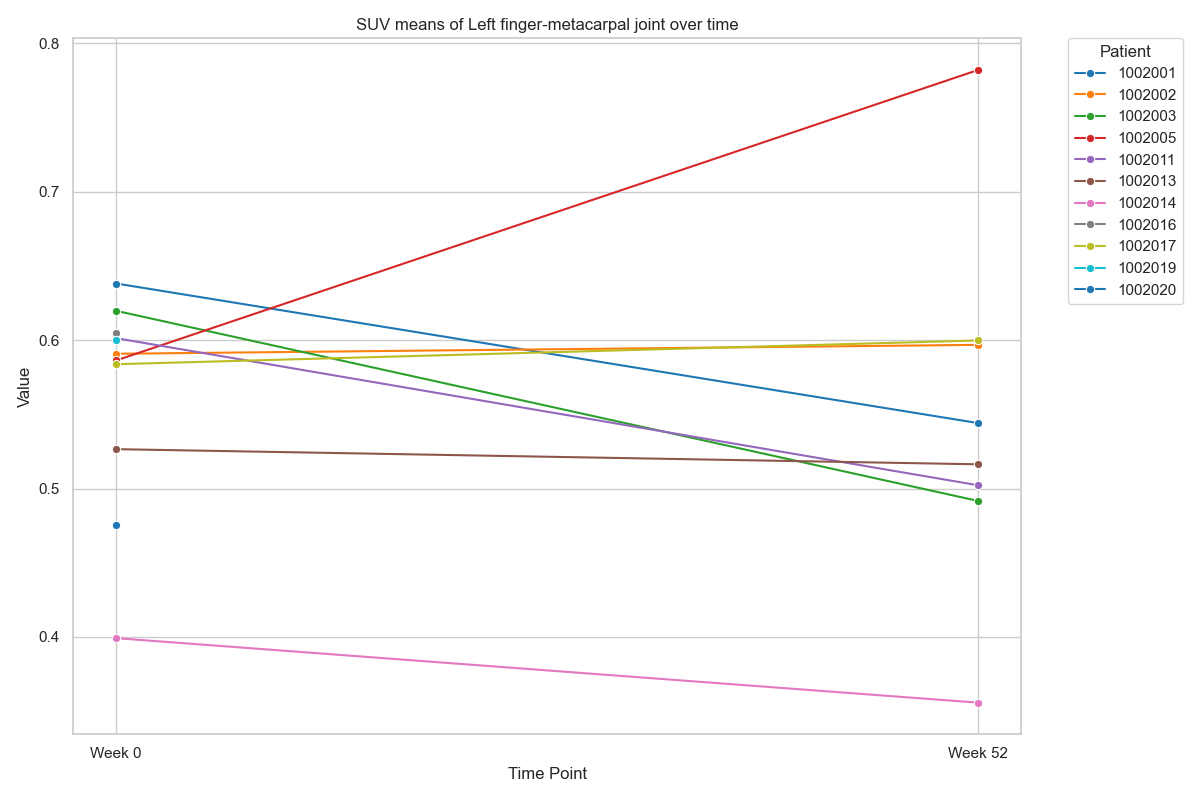
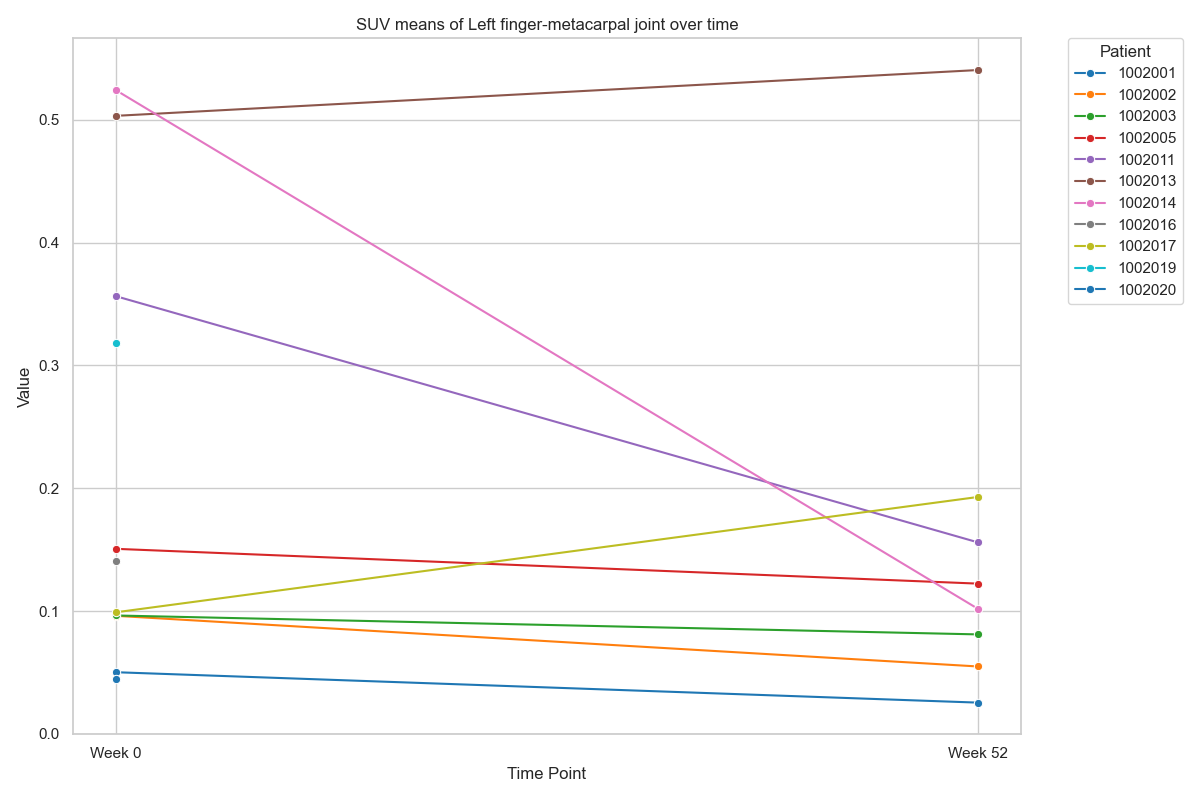
Figures generated. Will work on exporting dataframes to excel documents for data aggregation. Only site 1002 really usable...

diff --git a/psoriasisStatistics.py b/psoriasisStatistics.py
@@ -29,6 +29,8 @@ def combine_scans(path):
     """This function takes an npy file and combines the separate A,B,C scans into one and outputs the combined dictionary without the A,B,C suffixes"""
     combined_scans = {}
     scans = np.load(path, allow_pickle='TRUE').item()
+    for key,val in scans.items():
+        print(key)
 
     for scan_id, regions in scans.items():
         # Get the base scan ID without the component suffix (A, B, C)
@@ -104,7 +106,7 @@ def retrieveStats(combined_scans, scan, joint, stat):
     # print(combined_scans)
     return combined_scans[scan][joint_names[joint]][stat]
 
-def calculateStatistics(combined_scans, joint, stat):
+def calculateStatistics(combined_scans, joint, stat, site):
     #print(combined_scans)
     organizationFiles = "E:/Psoriasis/VIP-S Subject Tracker_Accounting Final.xlsx"
     df = pd.read_excel(organizationFiles)
@@ -114,10 +116,36 @@ def calculateStatistics(combined_scans, joint, stat):
     statistics_df = pd.DataFrame(columns=columns)
 
     for index, row in df.iterrows():
-        if str(row['Subject #']).startswith('1002'):
-            if str(row['Subject #']) == "1002018":
-                continue
-            #print(str(row['Subject #']))
+        if str(row['Subject #']).startswith(site):
+            # if str(row['Subject #']) == "1002018":
+            #     continue
+
+            # if str(row['Subject #']) == "1003005":
+            #    continue
+
+
+            # if str(row['Subject #']) == "1003007" and row['IRC_Week 0 baseline'] == 531:
+            #    continue
+            # if str(row['Subject #']) == "1005001" and row['IRC_Week 0 baseline'] == 322:
+            #    continue
+            # if str(row['Subject #']) == "1005002" and row['IRC_Week 0 baseline'] == 742:
+            #    continue
+            # if str(row['Subject #']) == "1005004" and row['IRC_Week 0 baseline'] == 295:
+            #    continue
+            # if str(row['Subject #']) == "1005007" and row['IRC_Week 12'] == 241:
+            #    continue
+            # if str(row['Subject #']) == "1005011" and row['IRC_Week 0 baseline'] == 764:
+            #    continue
+            # if str(row['Subject #']) == "1005013" and row['IRC_Week 0 baseline'] == 890:
+            #    continue
+            
+            # if str(row['Subject #']) == "1012001" and row['IRC_Week 0 baseline'] == 980:
+            #    continue
+            # if str(row['Subject #']) == "1012003" and row['IRC_Week 0 baseline'] == 802:
+            #    continue
+            # if str(row['Subject #']) == "1012006" and row['IRC_Week 0 baseline'] == 351:
+            #    continue
+
             subject_name = str(row['Subject #'])
 
             #Add patient data to df:
@@ -126,10 +154,12 @@ def calculateStatistics(combined_scans, joint, stat):
             code0 = row['IRC_Week 0 baseline']
             if not np.isnan(code0):
                 week_0 = subject_name + "-" + f"{int(code0):03}"
-                stat1 = retrieveStats(combined_scans, week_0, joint, stat)
-                patient_data["Week 0"] = stat1
-                #print(week_0)
-                #print(stat1)
+
+                if week_0 in combined_scans:
+                    stat1 = retrieveStats(combined_scans, week_0, joint, stat)
+                    patient_data["Week 0"] = stat1
+                else:
+                    patient_data["Week 0"] = np.nan
             else:
                 patient_data["Week 0"] = np.nan
 
@@ -137,10 +167,11 @@ def calculateStatistics(combined_scans, joint, stat):
             code1 = row['IRC_Week 12']
             if not np.isnan(code1):
                 week_1 = subject_name + "-" + f"{int(code1):03}"
-                stat2 = retrieveStats(combined_scans, week_1, joint, stat)
-                #print(week_1)
-                #print(stat2)
-                patient_data["Week 12"] = stat2
+                if week_1 in combined_scans:
+                    stat2 = retrieveStats(combined_scans, week_1, joint, stat)
+                    patient_data["Week 12"] = stat2
+                else:
+                    patient_data["Week 12"] = np.nan
             else:
                 patient_data["Week 12"] = np.nan
             
@@ -148,10 +179,12 @@ def calculateStatistics(combined_scans, joint, stat):
             code2 = row['IRC_Week 52']
             if not np.isnan(code2):
                 week_2 = subject_name + "-" + f"{int(code2):03}"
-                stat3 = retrieveStats(combined_scans, week_2, joint, stat)
-                #print(week_2)
-                #print(stat3)
-                patient_data["Week 52"] = stat3
+
+                if week_2 in combined_scans:
+                    stat3 = retrieveStats(combined_scans, week_2, joint, stat)
+                    patient_data["Week 52"] = stat3
+                else:
+                    patient_data["Week 52"] = np.nan
             else:
                 patient_data["Week 52"] = np.nan
             # print(f"Week 0: {int(row['IRC_Week 0 baseline'])}")
@@ -193,15 +226,23 @@ def plot_patient_statistics(statistics_df, joint, save_path):
     # Show the plot
     #plt.show()
 
-combined = combine_scans('D:/Documents/Repos/PET_Segmentation_Statistics/Psoriasis Statistics/site_1002_joint_suv_stats.npy')
-present_joints = detectPresentJoints(combined)
 
-# For our first test we will calculate 10,11,14,15 for site 1002
-for i in range(1, 9):
-    i = 1
+
+combined = combine_scans('D:/Documents/Repos/PET_Segmentation_Statistics/Psoriasis Statistics/site_1003_joint_suv_stats.npy')
+
+# No need to do combine for Site 1005 since no A,B,C scans
+#combined = np.load('D:/Documents/Repos/PET_Segmentation_Statistics/Psoriasis Statistics/site_1005_joint_suv_stats.npy', allow_pickle='TRUE').item()
+present_joints = detectPresentJoints(combined)
+print(present_joints)
+
+# # For our first test we will calculate 10,11,14,15 for site 1002
+for i in range(1, 19):
     print(f"For Joint {i}")
-    statistics_df = calculateStatistics(combined, i, 'mean')
-    statistics_df = statistics_df.drop(columns=['Week 12'])
-    save_path = "D:/Documents/Repos/PET_Segmentation_Statistics/Psoriasis Statistics/Figures/Site 1002/No week 12/" + f"{joint_names[i]}.png"
-    plot_patient_statistics(statistics_df, i, False)#,save_path)
+    statistics_df = calculateStatistics(combined, i, 'mean', '1003')
+
+    print(statistics_df)
+    # Excluding Week 12 from scans
+    #statistics_df = statistics_df.drop(columns=['Week 12'])
+    save_path = "D:/Documents/Repos/PET_Segmentation_Statistics/Psoriasis Statistics/Figures/Site 1003/" + f"{joint_names[i]}.png"
+    plot_patient_statistics(statistics_df, i, save_path)
 
